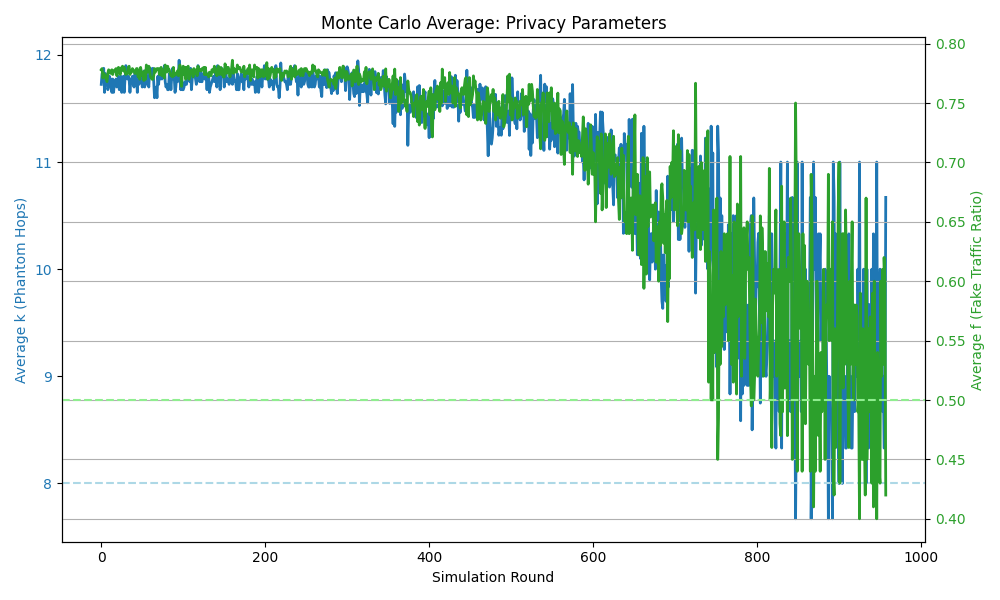
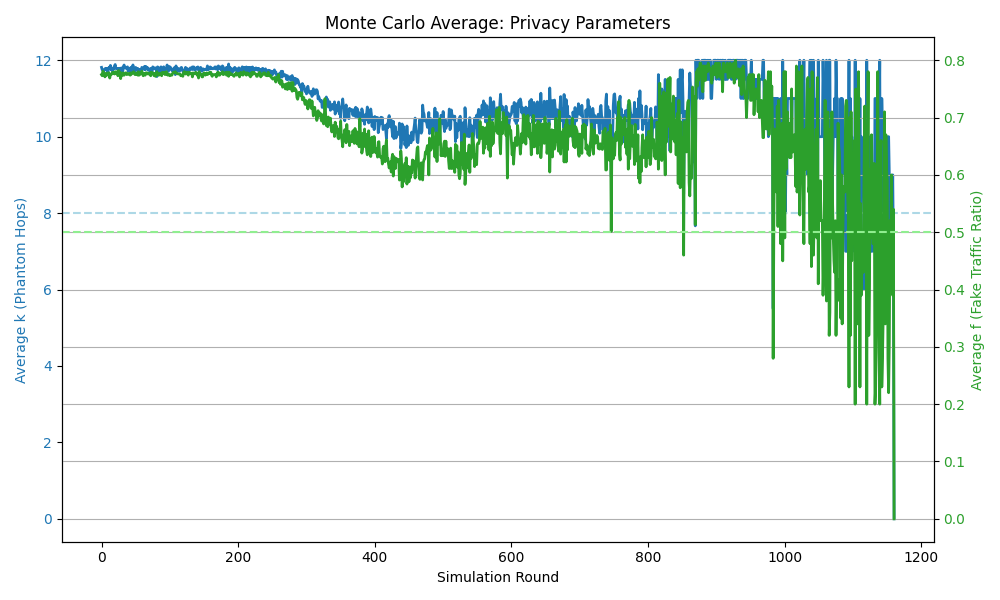
stress testing 3 - source load increase from 4 to 8

diff --git a/adaptive_simulation.py b/adaptive_simulation.py
@@ -41,30 +41,24 @@ class Adversary:
             if self.current_node in source_nodes:
                 self.is_captured = True
 
-def get_fixed_sources(G, num_sources=4):
+def get_fixed_sources(G, num_sources=8):
     """
-    Selects 4 source nodes based on the Scenario All Directions (SAD) geometry.
+    Selects source nodes based on the Scenario All Directions (SAD) geometry.
     Nodes are placed N, S, E, W at approximately 25 hops from the sink.
     """
-    # Cast the generator to a dictionary
     hop_lengths = dict(nx.single_target_shortest_path_length(G, "SINK"))
-    
     candidates = {'N': [], 'S': [], 'E': [], 'W': []}
     
     for n in G.nodes():
         if G.nodes[n]['type'] == 'sensor' and n in hop_lengths:
             hops = hop_lengths[n]
             
-            # Filter nodes that are near the 25-hop target distance
             if 20 <= hops <= 30:
                 x, y = G.nodes[n]['pos']
-                
-                # Calculate angle relative to the sink at (1000, 1000)
                 dx = x - 1000.0
                 dy = y - 1000.0
                 angle = math.degrees(math.atan2(dy, dx))
                 
-                # Group by geometric quadrant and store deviation from exactly 25 hops
                 if 45 <= angle < 135:
                     candidates['N'].append((n, abs(hops - 25)))
                 elif -135 <= angle < -45:
@@ -75,13 +69,16 @@ def get_fixed_sources(G, num_sources=4):
                     candidates['W'].append((n, abs(hops - 25)))
     
     sources = []
-    # Select the node in each quadrant that is closest to exactly 25 hops
+    nodes_per_quadrant = num_sources // 4
+    
     for direction in ['N', 'S', 'E', 'W']:
         if candidates[direction]:
-            best_node = sorted(candidates[direction], key=lambda x: x[1])[0][0]
-            sources.append(best_node)
+            sorted_candidates = sorted(candidates[direction], key=lambda x: x[1])
+            for i in range(min(nodes_per_quadrant, len(sorted_candidates))):
+                sources.append(sorted_candidates[i][0])
             
     return sources
+
 
 def random_walk(G, start_node, steps, directed_steps=3):
     current_node = start_node
@@ -199,7 +196,7 @@ def run_adaptive_simulation(seed_val=42):
     print(f"Initializing adaptive network with seed {seed_val}...")
     G = create_wsn_graph(seed=seed_val)
     
-    fixed_sources = get_fixed_sources(G, num_sources=4)
+    fixed_sources = get_fixed_sources(G, num_sources=8)
     print(f"Selected Source Nodes: {fixed_sources}")
     
     dead_nodes = 0
@@ -259,7 +256,7 @@ def run_adaptive_simulation(seed_val=42):
                     top_n = min(2, len(candidate_distances))
                     current_dummy_sources = [node for node, dist in candidate_distances[:top_n]]
 
-                    
+
 
         # 1. State Evaluation & PSO Update
         coverage_ratio = (NUM_NODES - dead_nodes) / NUM_NODES

diff --git a/baseline_simulation.py b/baseline_simulation.py
@@ -132,30 +132,24 @@ def deduct_energy(G, path):
 
 
 
-def get_fixed_sources(G, num_sources=4):
+def get_fixed_sources(G, num_sources=8):
     """
-    Selects 4 source nodes based on the Scenario All Directions (SAD) geometry.
+    Selects source nodes based on the Scenario All Directions (SAD) geometry.
     Nodes are placed N, S, E, W at approximately 25 hops from the sink.
     """
-    # Cast the generator to a dictionary
     hop_lengths = dict(nx.single_target_shortest_path_length(G, "SINK"))
-    
     candidates = {'N': [], 'S': [], 'E': [], 'W': []}
     
     for n in G.nodes():
         if G.nodes[n]['type'] == 'sensor' and n in hop_lengths:
             hops = hop_lengths[n]
             
-            # Filter nodes that are near the 25-hop target distance
             if 20 <= hops <= 30:
                 x, y = G.nodes[n]['pos']
-                
-                # Calculate angle relative to the sink at (1000, 1000)
                 dx = x - 1000.0
                 dy = y - 1000.0
                 angle = math.degrees(math.atan2(dy, dx))
                 
-                # Group by geometric quadrant and store deviation from exactly 25 hops
                 if 45 <= angle < 135:
                     candidates['N'].append((n, abs(hops - 25)))
                 elif -135 <= angle < -45:
@@ -166,13 +160,16 @@ def get_fixed_sources(G, num_sources=4):
                     candidates['W'].append((n, abs(hops - 25)))
     
     sources = []
-    # Select the node in each quadrant that is closest to exactly 25 hops
+    nodes_per_quadrant = num_sources // 4
+    
     for direction in ['N', 'S', 'E', 'W']:
         if candidates[direction]:
-            best_node = sorted(candidates[direction], key=lambda x: x[1])[0][0]
-            sources.append(best_node)
+            sorted_candidates = sorted(candidates[direction], key=lambda x: x[1])
+            for i in range(min(nodes_per_quadrant, len(sorted_candidates))):
+                sources.append(sorted_candidates[i][0])
             
     return sources
+
 
 def run_simulation(seed_val=42):
     random.seed(seed_val)
@@ -181,7 +178,7 @@ def run_simulation(seed_val=42):
     
     
     print("Locating connected source nodes...")
-    fixed_sources = get_fixed_sources(G, num_sources=4)
+    fixed_sources = get_fixed_sources(G, num_sources=8)
     print(f"Selected Source Nodes: {fixed_sources}")
     
     dead_nodes = 0
@@ -236,7 +233,7 @@ def run_simulation(seed_val=42):
                     # Select the 2 furthest nodes
                     top_n = min(2, len(candidate_distances))
                     current_dummy_sources = [node for node, dist in candidate_distances[:top_n]]
-                    
+
                 
         packets_delivered_this_round = 0
         round_transmissions = {}

diff --git a/baseline_network.py b/baseline_network.py
@@ -6,7 +6,7 @@ from scipy.spatial import cKDTree
 
 # Network Parameters
 AREA_SIZE = 2000
-NUM_NODES = 1500
+NUM_NODES = 3000
 COMM_RANGE = 80
 INITIAL_ENERGY = 0.5
 SINK_POS = (1000, 1000)

diff --git a/config.py b/config.py
@@ -1,6 +1,6 @@
 # config.py
 AREA_SIZE = 2000
-NUM_NODES = 1500
+NUM_NODES = 3000
 COMM_RANGE = 80
 INITIAL_ENERGY = 0.5
 SINK_POS = (1000, 1000)
